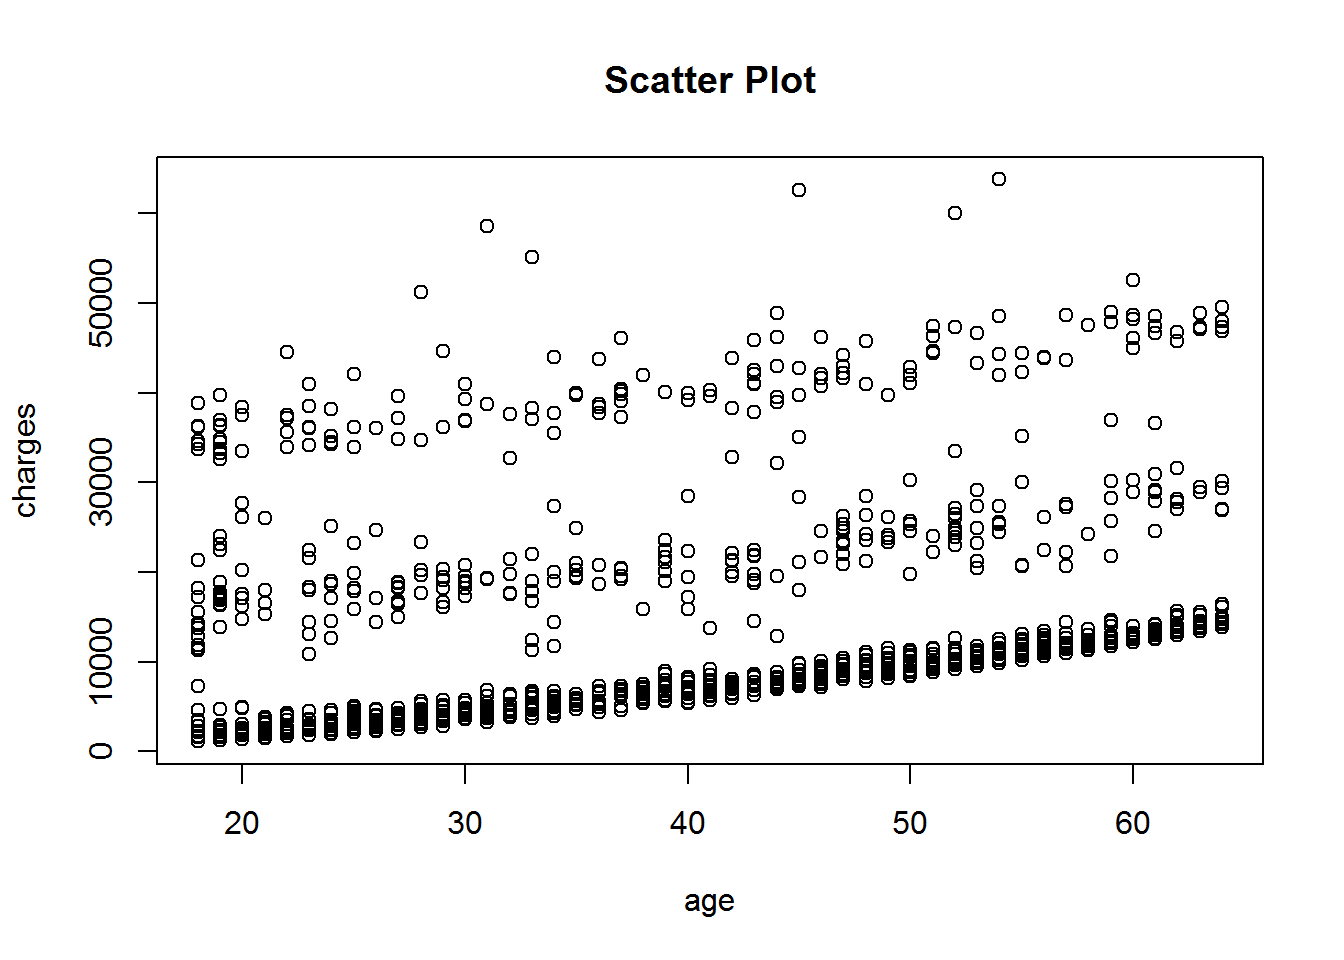
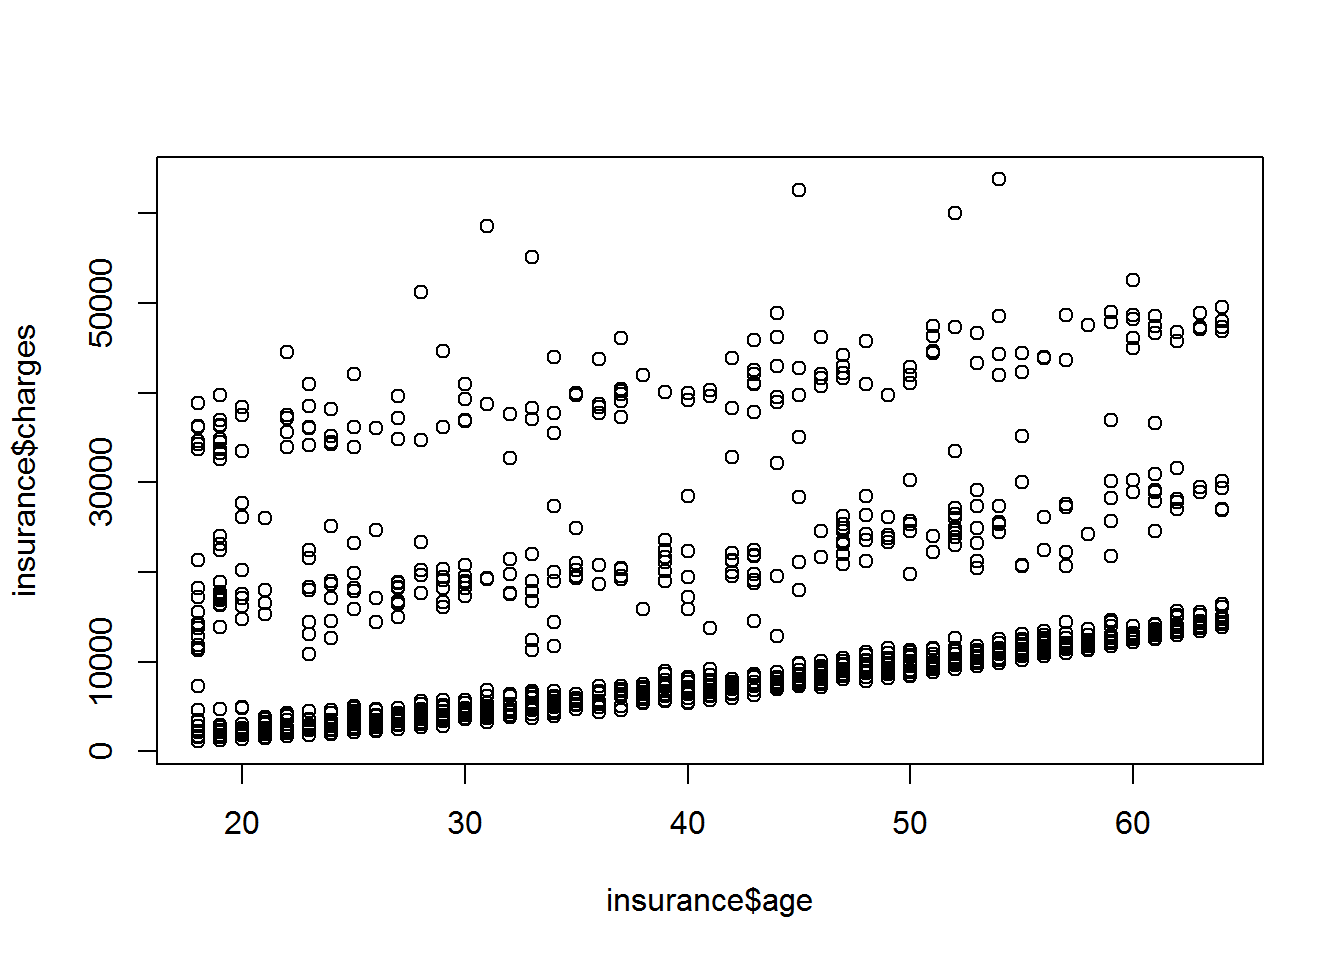
add

Changed region(s): [[0.4375, 0.9062, 0.5938, 0.9688], [0.0, 0.3438, 0.0312, 0.625], [0.4375, 0.0625, 0.625, 0.0938]]

diff --git a/content/post/2018-08-12-easy-plotting.html b/content/post/2018-08-12-easy-plotting.html
@@ -24,8 +24,8 @@ output:
 library(&quot;mosaic&quot;)</code></pre>
 <pre class="r"><code>insurance &lt;- read_csv(&quot;insurance.csv&quot;)</code></pre>
 </div>
-<div id="ubersicht-ber-die-uns-vorliegenden-daten" class="section level1">
-<h1>Übersicht ?ber die uns vorliegenden Daten</h1>
+<div id="ubersicht-uber-die-uns-vorliegenden-daten" class="section level1">
+<h1>Übersicht über die uns vorliegenden Daten</h1>
 <pre class="r"><code>glimpse(insurance)</code></pre>
 <pre><code>## Observations: 1,338
 ## Variables: 7
@@ -135,7 +135,7 @@ boxplot(insurance$charges)</code></pre>
 <div id="beschriftungen-und-weitere-befehle" class="section level1">
 <h1>Beschriftungen und weitere Befehle</h1>
 <p>Die von R ausgegebenen Beschriftungen sind meist sehr unschön oder fehlen gänzlich. Daher hier noch ein paar Tipps anhand des zuvor erstellten Scatter Plot Beispiels, damit die erstellten Grafiken ein wenig hübscher und aussagekräftiger werden.</p>
-<pre class="r"><code>plot(insurance$age, insurance$charges, xlab = &quot;age&quot;, ylab = &quot;charges&quot;, main = &quot;Scatter Plot&quot;)</code></pre>
+<pre class="r"><code>plot(insurance$age, insurance$charges)</code></pre>
 <p><img src="/post/2018-08-12-easy-plotting_files/figure-html/unnamed-chunk-15-1.png" width="672" /></p>
 <p>Die Befehle <em>xlab</em> und <em>ylab</em> ermöglichen eine Beschriftung der beiden Achsen. Mit <em>main</em> kann eine Überschrift hinzugefügt werden.</p>
 <pre class="r"><code>plot(insurance$age, insurance$charges, xlab = &quot;age&quot;, ylab = &quot;charges&quot;, main = &quot;Scatter Plot&quot;, pch=19)</code></pre>

diff --git a/public/2018/08/12/easy-plotting/index.html b/public/2018/08/12/easy-plotting/index.html
@@ -76,8 +76,8 @@
 library(&quot;mosaic&quot;)</code></pre>
 <pre class="r"><code>insurance &lt;- read_csv(&quot;insurance.csv&quot;)</code></pre>
 </div>
-<div id="ubersicht-ber-die-uns-vorliegenden-daten" class="section level1">
-<h1>Übersicht ?ber die uns vorliegenden Daten</h1>
+<div id="ubersicht-uber-die-uns-vorliegenden-daten" class="section level1">
+<h1>Übersicht über die uns vorliegenden Daten</h1>
 <pre class="r"><code>glimpse(insurance)</code></pre>
 <pre><code>## Observations: 1,338
 ## Variables: 7
@@ -187,7 +187,7 @@ boxplot(insurance$charges)</code></pre>
 <div id="beschriftungen-und-weitere-befehle" class="section level1">
 <h1>Beschriftungen und weitere Befehle</h1>
 <p>Die von R ausgegebenen Beschriftungen sind meist sehr unschön oder fehlen gänzlich. Daher hier noch ein paar Tipps anhand des zuvor erstellten Scatter Plot Beispiels, damit die erstellten Grafiken ein wenig hübscher und aussagekräftiger werden.</p>
-<pre class="r"><code>plot(insurance$age, insurance$charges, xlab = &quot;age&quot;, ylab = &quot;charges&quot;, main = &quot;Scatter Plot&quot;)</code></pre>
+<pre class="r"><code>plot(insurance$age, insurance$charges)</code></pre>
 <p><img src="/post/2018-08-12-easy-plotting_files/figure-html/unnamed-chunk-15-1.png" width="672" /></p>
 <p>Die Befehle <em>xlab</em> und <em>ylab</em> ermöglichen eine Beschriftung der beiden Achsen. Mit <em>main</em> kann eine Überschrift hinzugefügt werden.</p>
 <pre class="r"><code>plot(insurance$age, insurance$charges, xlab = &quot;age&quot;, ylab = &quot;charges&quot;, main = &quot;Scatter Plot&quot;, pch=19)</code></pre>

diff --git a/public/about/index.html b/public/about/index.html
@@ -62,8 +62,11 @@
     <div class="article-content">
       <p><img src = "/post/MFuchs.png", width = "600", height = "800"></p>
 
-<p>R enthusiastic !
-Always hungry for more and deeper knowledge..</p>
+<p>R enthusiastic !</p>
+
+<p>Always hungry for more and deeper knowledge..</p>
+
+<p>If you have any questions or comments, just text me: FuchsMichaelAndi1989@gmail.com</p>
 
     </div>
   </article>
